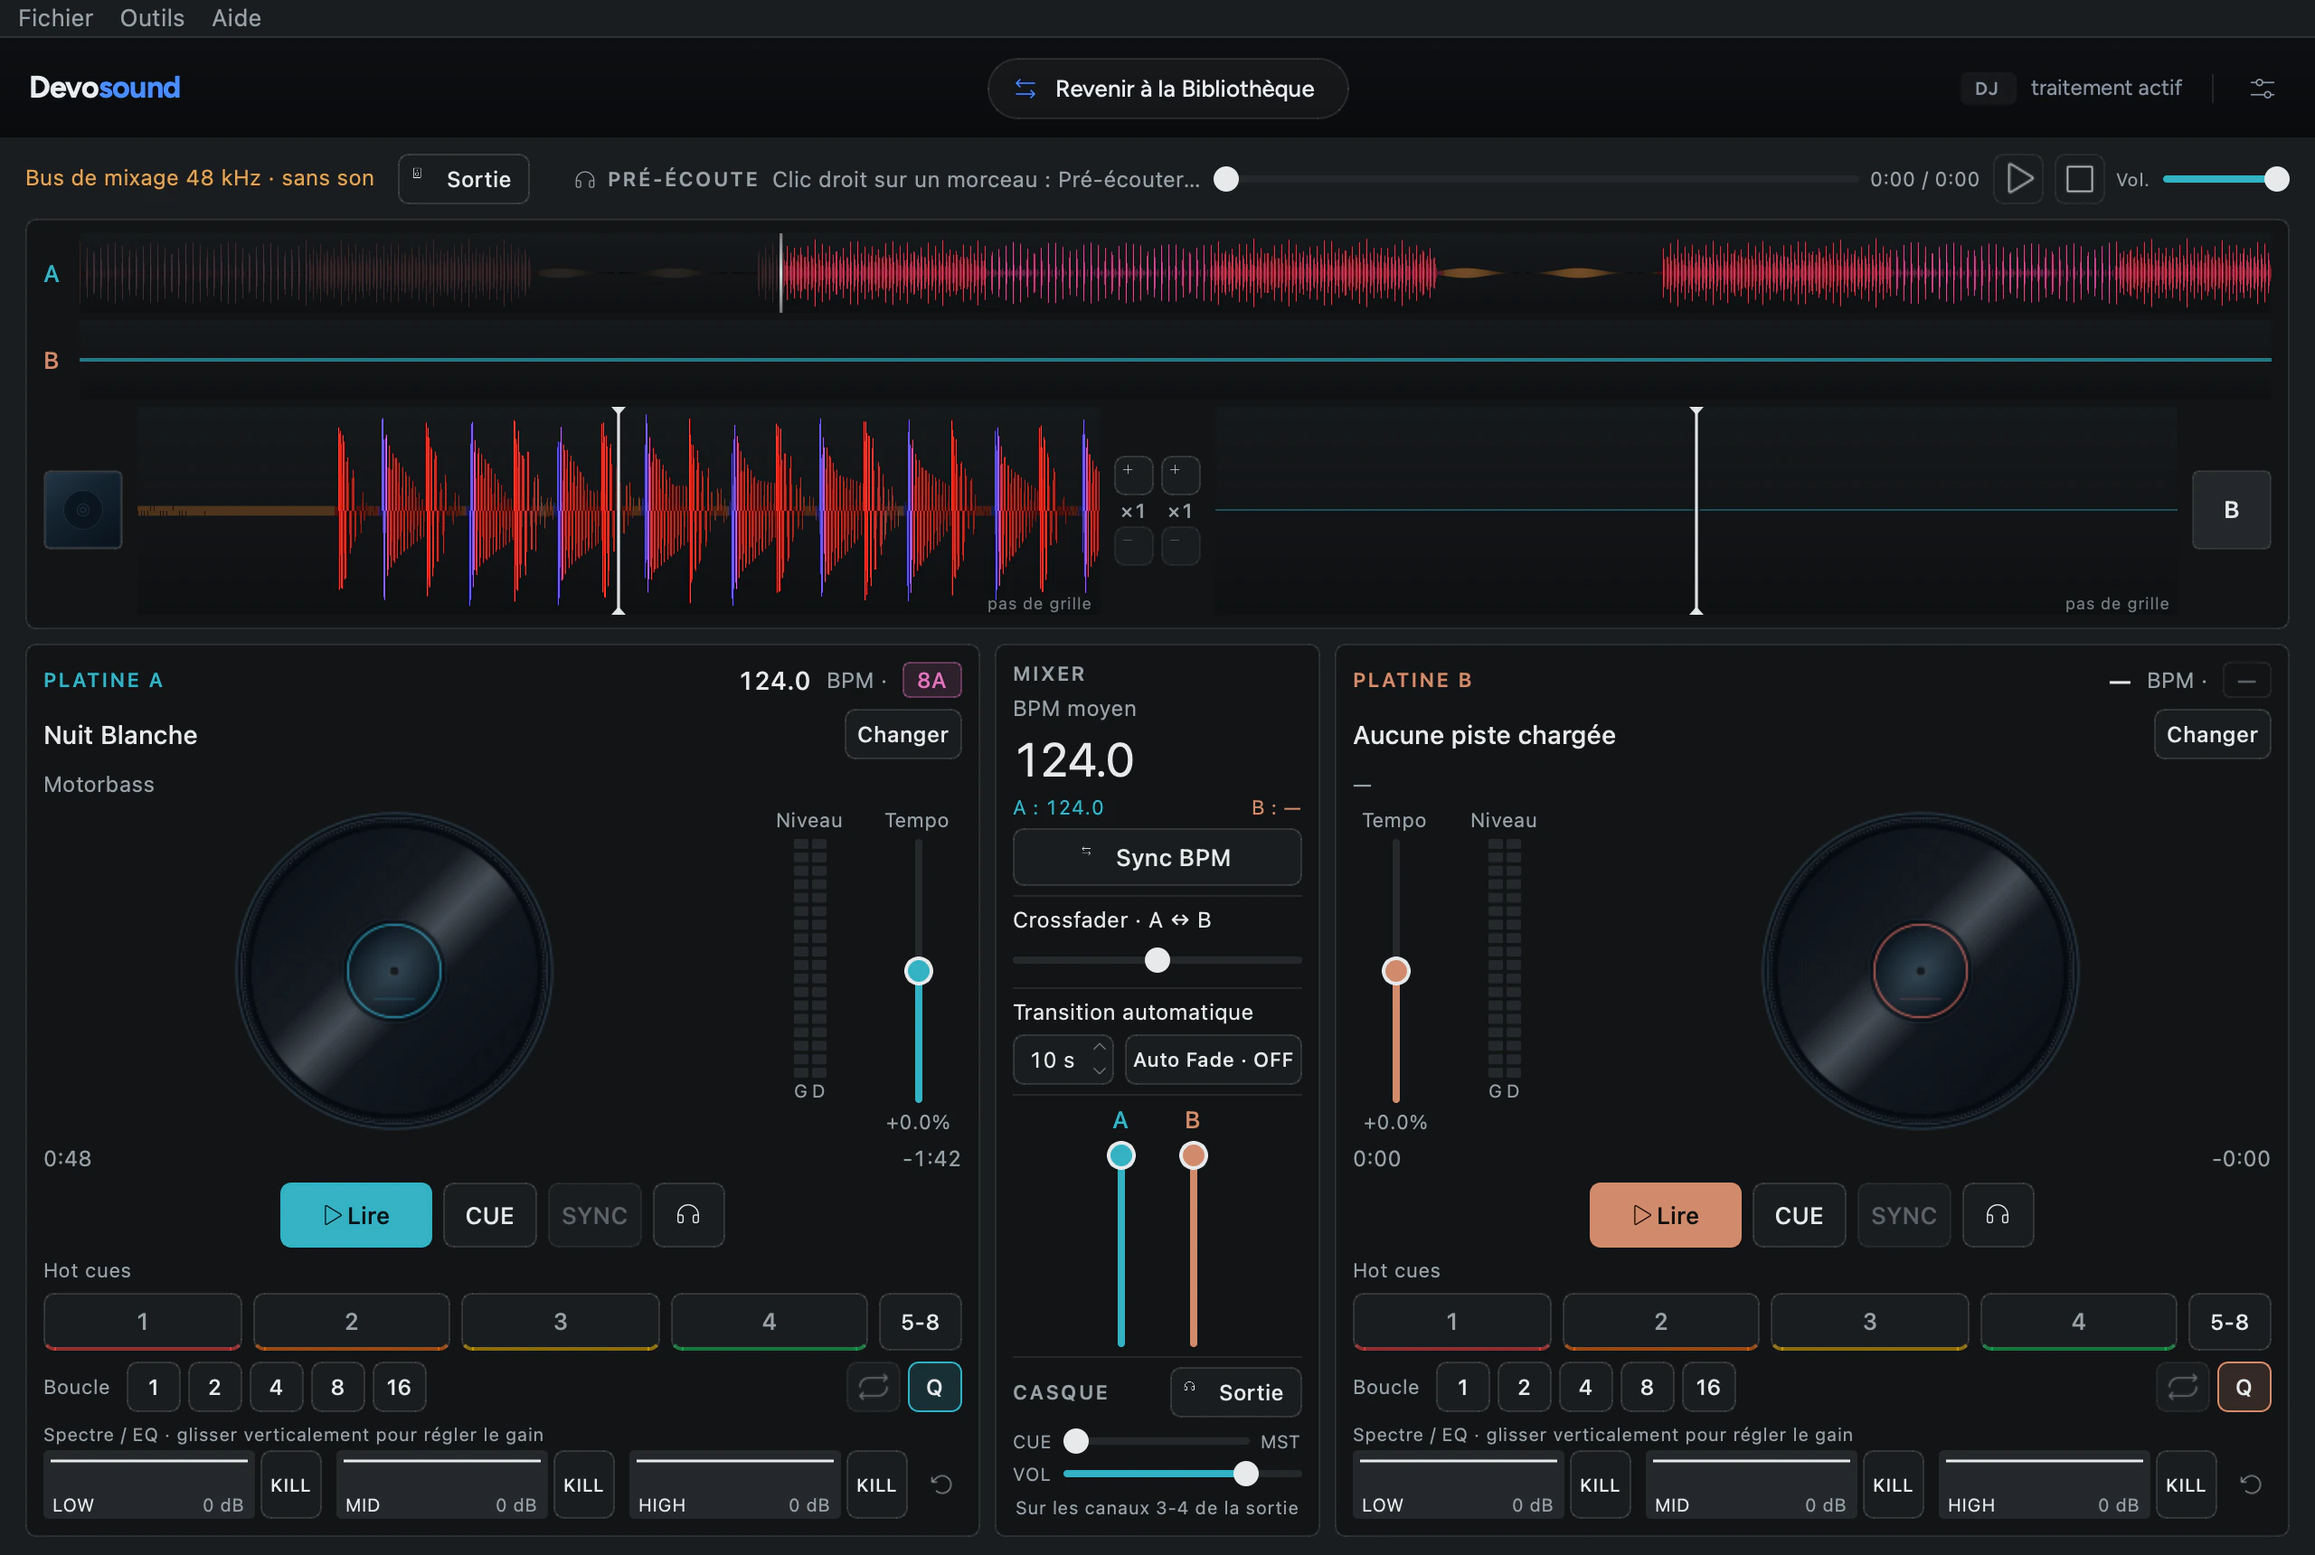
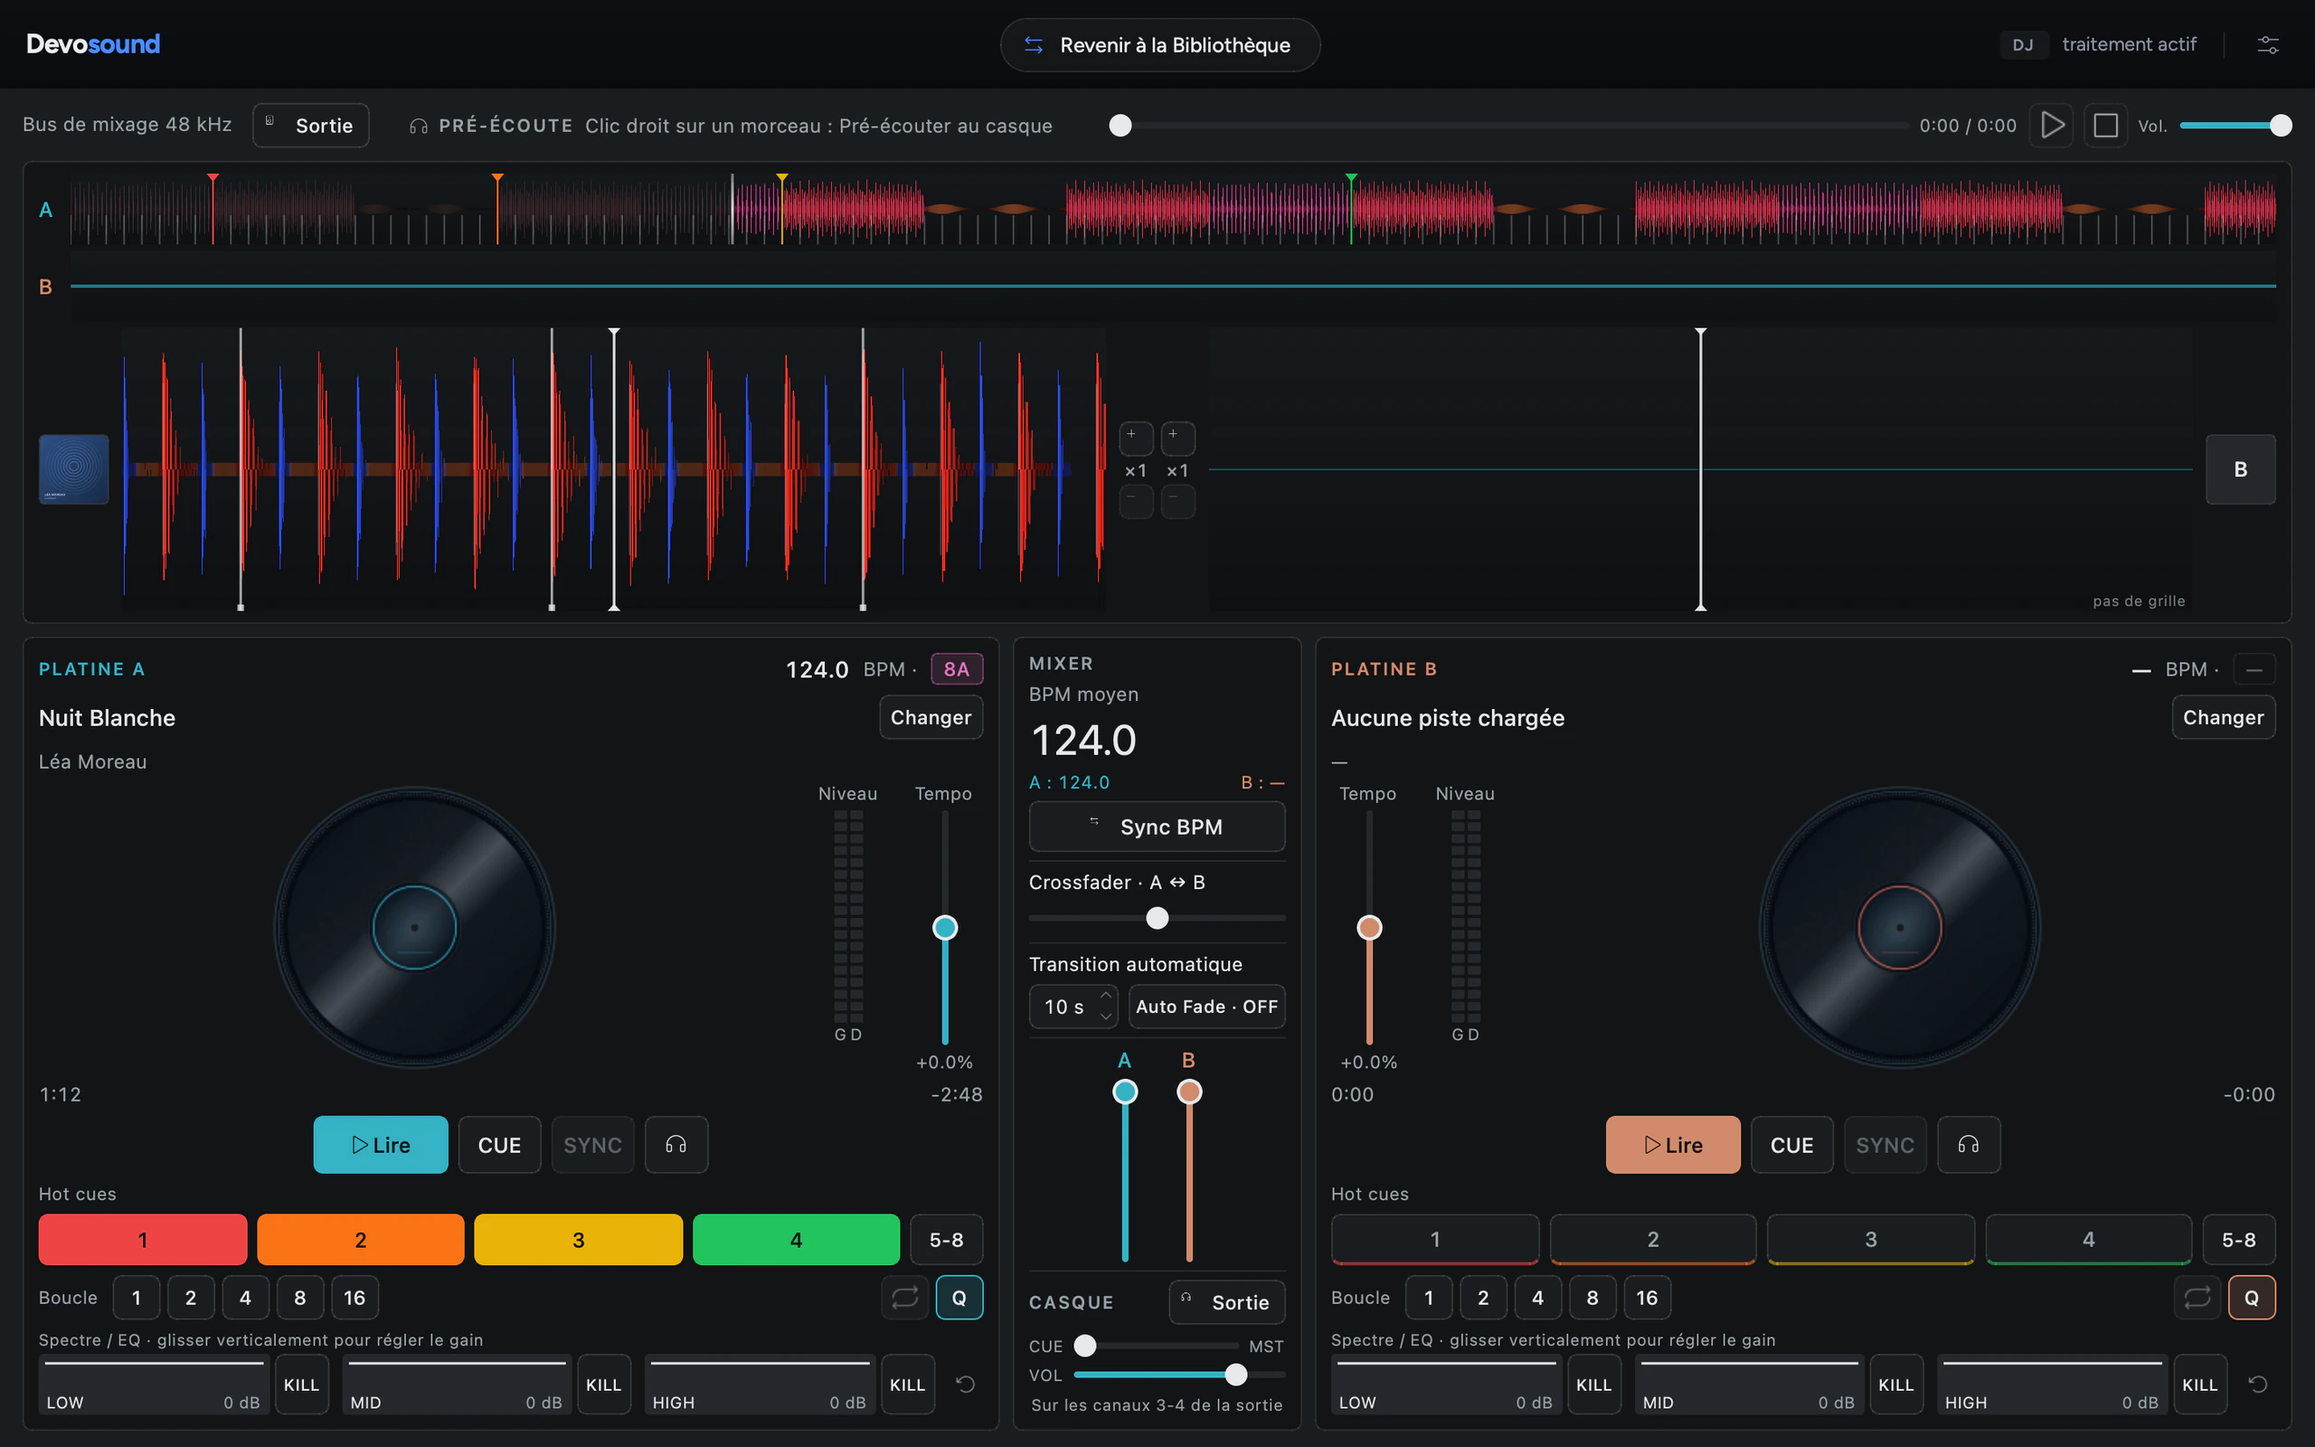
feat: captures du 8 octobre (démo Léa Moreau) et titres basse définition lisibles
- Captures 2× régénérées depuis chore/captures-site-371, converties en
  WebP 2560 px ; player montre le menu de sortie audio ; relais et
  recadrages (hi-fi, relais, recherche, roue, forme d'onde) refaits.
- Cadre du relais calé sur le ratio des captures (16:10).
- Alt et nowPlaying : Léa Moreau. Texte basse définition aligné sur #371 :
  lus avec le format en ambre, hors analyses, platines et exports.

Claude-Session: https://claude.ai/code/session_01BVCymzA4d4BUeodqtGdPrs

diff --git a/src/lib/config.tsx b/src/lib/config.tsx
@@ -220,14 +220,14 @@ export const siteConfig = {
     listen: {
       label: "Library",
       image: libraryPlaying,
-      imageAlt: "Library view with Nuit Blanche by Motorbass in the player",
+      imageAlt: "Library view with Nuit Blanche by Léa Moreau in the player",
     },
     mix: {
       label: "DJ Mixer",
       image: djMixerRelay,
       imageAlt: "DJ Mixer with Nuit Blanche continuing on deck A",
     },
-    nowPlaying: { title: "Nuit Blanche", artist: "Motorbass", bpm: "124.0" },
+    nowPlaying: { title: "Nuit Blanche", artist: "Léa Moreau", bpm: "124.0" },
     note: "Same track, same position. No reload, no silence.",
   },
   features: [
@@ -286,7 +286,7 @@ export const siteConfig = {
     { icon: "gain", name: "ReplayGain", detail: "EBU R128 at −14 LUFS. Off by default in the player, and the header says when it's on." },
     { icon: "shuffle", name: "Shuffle & repeat", detail: "Shuffle plays the whole list once before repeating. Repeat the list or a single track." },
     { icon: "gallery", name: "Cover gallery", detail: "Artwork in perspective above the track list. It slides to the track that's playing." },
-    { icon: "greyed", name: "Greyed, not hidden", detail: "Missing files and low-quality tracks stay in the list with their data, greyed and skipped. A tooltip says why." },
+    { icon: "greyed", name: "Greyed, not hidden", detail: "Missing files stay in the list with their data, greyed. Low-quality tracks still play, flagged in amber, and can be hidden in Settings." },
     { icon: "watch", name: "Folder watching", detail: "Changes made while the app was closed are caught up at launch. Unplugging a drive never empties your library." },
     { icon: "playlists", name: "Playlists in the sidebar", detail: "Playlists and smart playlists one click away, under Explorer." },
     { icon: "exclusive", name: "Exclusive mode (macOS)", detail: "On external DACs, no other app mixes into the sound." },
@@ -590,11 +590,13 @@ export const siteConfig = {
       question: "Why are some tracks greyed out?",
       answer: (
         <span>
-          A greyed track is either missing from disk or below the quality bar
-          (for example an MP3 under 320 kb/s). It keeps its cues, notes and
-          history, but isn’t played or loaded on a deck. A tooltip gives the
-          reason. In the Up Next queue and the DJ track picker, grey also
-          marks tracks you’ve already played.
+          A greyed track is missing from disk, or in a format the app doesn’t
+          play (Opus, WMA). It keeps its cues, notes and history, and a
+          tooltip gives the reason. Tracks below the quality bar (for example
+          an MP3 under 320 kb/s) aren’t greyed: they play, with their format
+          in amber, but stay out of analysis, the decks and exports. In the
+          Up Next queue and the DJ track picker, grey also marks tracks
+          you’ve already played.
         </span>
       ),
     },

diff --git a/src/components/sections/deck-relay.tsx b/src/components/sections/deck-relay.tsx
@@ -200,7 +200,8 @@ export function DeckRelay() {
           />
           <div
             className="relative overflow-hidden rounded-xl border border-white/10 bg-surface shadow-[0_30px_80px_-20px_rgba(0,0,0,0.8)] ring-1 ring-black/60"
-            style={{ aspectRatio: "2560 / 1720" }}
+            // Ratio des captures elles-mêmes : le cadre suit si elles changent.
+            style={{ aspectRatio: `${SHOTS[0].image.width} / ${SHOTS[0].image.height}` }}
           >
             {SHOTS.map((shot, i) => {
               const visible = (i === 1) === mix;

diff --git a/CONTENU-SITE.md b/CONTENU-SITE.md
@@ -171,7 +171,7 @@ Liens : Fonctionnalités, Tarifs, Questions, Licences tierces, Contact. L'adress
   - **rattrapage au démarrage** de ce qui a changé pendant que l'app était fermée, en tâche de fond ;
   - un disque débranché ne vide jamais la bibliothèque.
 - **Fichiers introuvables gardés grisés** avec leurs repères, note, favori, playlists et historique ; ils redeviennent normaux si le fichier revient. Retrait groupé depuis le menu Fichier.
-- **Titres de qualité trop basse grisés et ignorés** : MP3 sous 320 kb/s, AAC et Vorbis sous 256 kb/s, WAV et AIFF sous 16 bits ou 44,1 kHz, tout Opus et WMA. Une infobulle dit pourquoi.
+- **Titres de qualité trop basse lus, sans les fonctions de l'app** (#371) : MP3 sous 320 kb/s, AAC et Vorbis sous 256 kb/s, WAV et AIFF sous 16 bits ou 44,1 kHz. Ils se lisent dans le lecteur et la file « À suivre », avec le format en ambre et un badge « Basse déf. » dans l'en-tête, mais restent exclus des analyses, de Discogs/MusicBrainz, des platines, des playlists intelligentes, d'Harmonic Mix et des exports. Un réglage (coupé par défaut) les masque des listes. Opus et WMA restent grisés.
 - **Rapide** : 50 000 morceaux s'ouvrent en environ 100 ms.
 - **Galerie de pochettes** en perspective au-dessus de la liste, qui glisse jusqu'au morceau en cours ; un clic lance la lecture à partir d'une pochette.
 - **Affichage** : pochette ou initiales, titre et artiste, BPM, clé Camelot colorée, favori d'un clic, chargement sur la platine A ou B.
@@ -245,7 +245,7 @@ Polices : Figtree pour le texte, IBM Plex Mono pour les chiffres. Icônes Phosph
   FLAC, WAV, AIFF, ALAC, MP3, AAC, Ogg Vorbis, jusqu'à 32 bits / 768 kHz. Le moteur gère le DSD (DSF et DFF), mais ces fichiers ne peuvent pas encore être ajoutés à la bibliothèque. Opus et WMA ne sont pas lus.
 
 - **Pourquoi certains morceaux sont-ils grisés ?**
-  Le fichier est introuvable, ou sa qualité est trop basse (un MP3 sous 320 kb/s, par exemple). Le morceau garde ses repères, ses notes et son historique, mais n'est ni lu ni chargé sur une platine ; une infobulle dit pourquoi. Dans la file « À suivre » et le sélecteur du DJ Mixer, le gris signale aussi les morceaux déjà joués.
+  Le fichier est introuvable, ou dans un format que l'app ne lit pas (Opus, WMA). Le morceau garde ses repères, ses notes et son historique ; une infobulle dit pourquoi. Un titre sous le seuil de qualité (un MP3 sous 320 kb/s, par exemple) n'est pas grisé : il se lit, format en ambre, mais reste hors des analyses, des platines et des exports. Dans la file « À suivre » et le sélecteur du DJ Mixer, le gris signale aussi les morceaux déjà joués.
 
 - **L'app peut-elle supprimer mes fichiers ?**
   Seulement si vous le demandez. Les fichiers vont à la Corbeille du Mac, sauf si vous choisissez de les supprimer définitivement.
@@ -276,7 +276,7 @@ Polices : Figtree pour le texte, IBM Plex Mono pour les chiffres. Icônes Phosph
 - **La lecture de fichiers DSD dans l'app** : le moteur existe, mais les fichiers n'entrent pas dans la bibliothèque. Ni DSD dans le hero, les formats ou les tarifs. Et jamais de DSD natif sur Mac : c'est le DoP, ou une conversion PCM.
 - Le 32 bits bit-perfect sur Mac : 24 bits effectifs.
 - La lecture des formats Opus et WMA (ils apparaissent grisés).
-- La lecture des MP3 sous 320 kb/s et des autres fichiers sous le seuil de qualité : ils sont grisés et ignorés.
+- Les fonctions de l'app (analyse, platines, exports, Harmonic Mix) sur les titres sous le seuil de qualité : ils se lisent, sans plus. Ni le bouton « Acheter en HD » et son texte, à valider côté produit.
 - **Les touches média du clavier** et les boutons du widget « À l'écoute » : non vérifiés sur l'app lancée. On ne parle que de l'affichage du widget.
 - **Une compatibilité avec des marques de streamers** (Linn, Naim, Cambridge…) : DLNA validé seulement sur un streamer simulé.
 - La lecture qui continue quand l'app est fermée avec OpenHome : pas encore.
